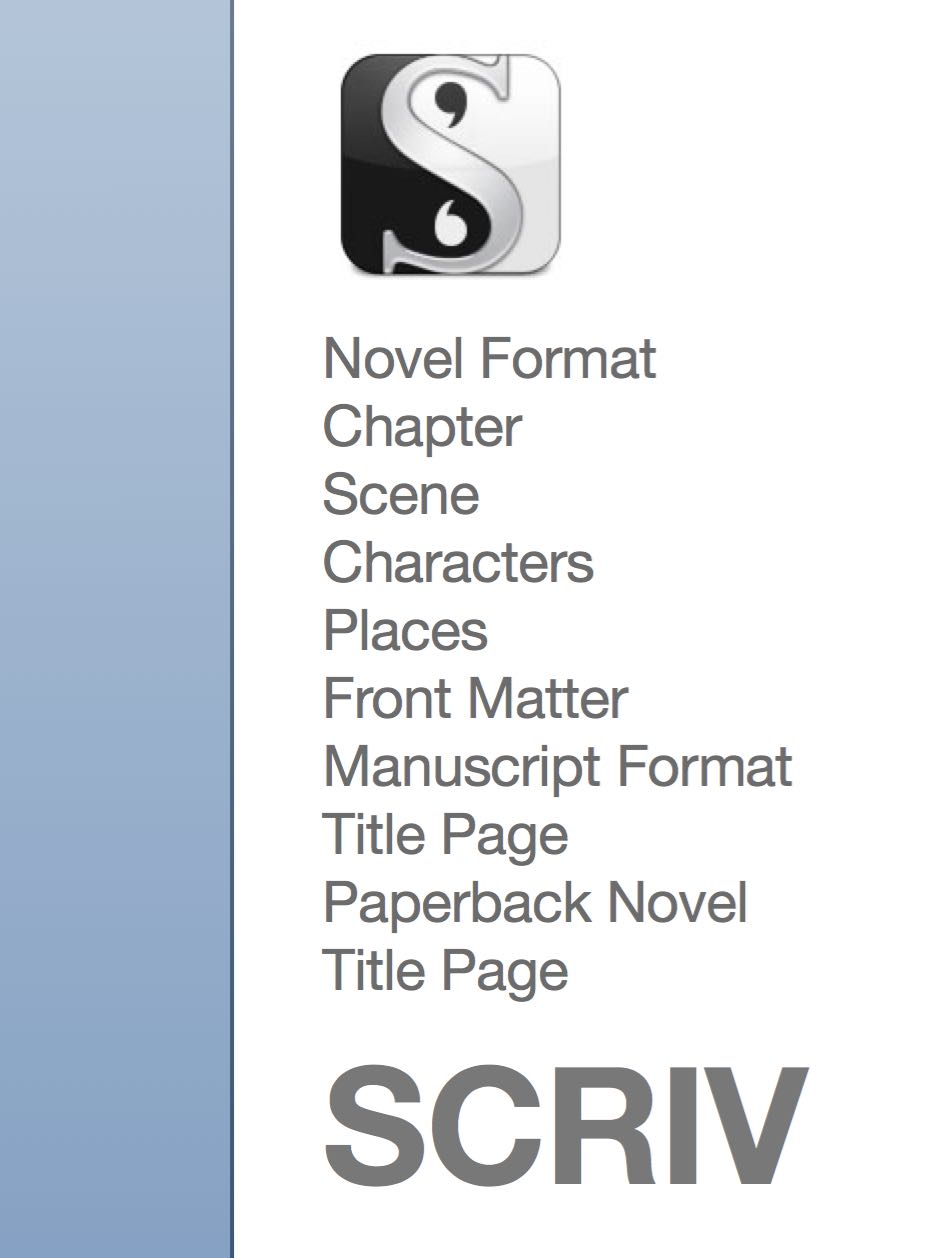
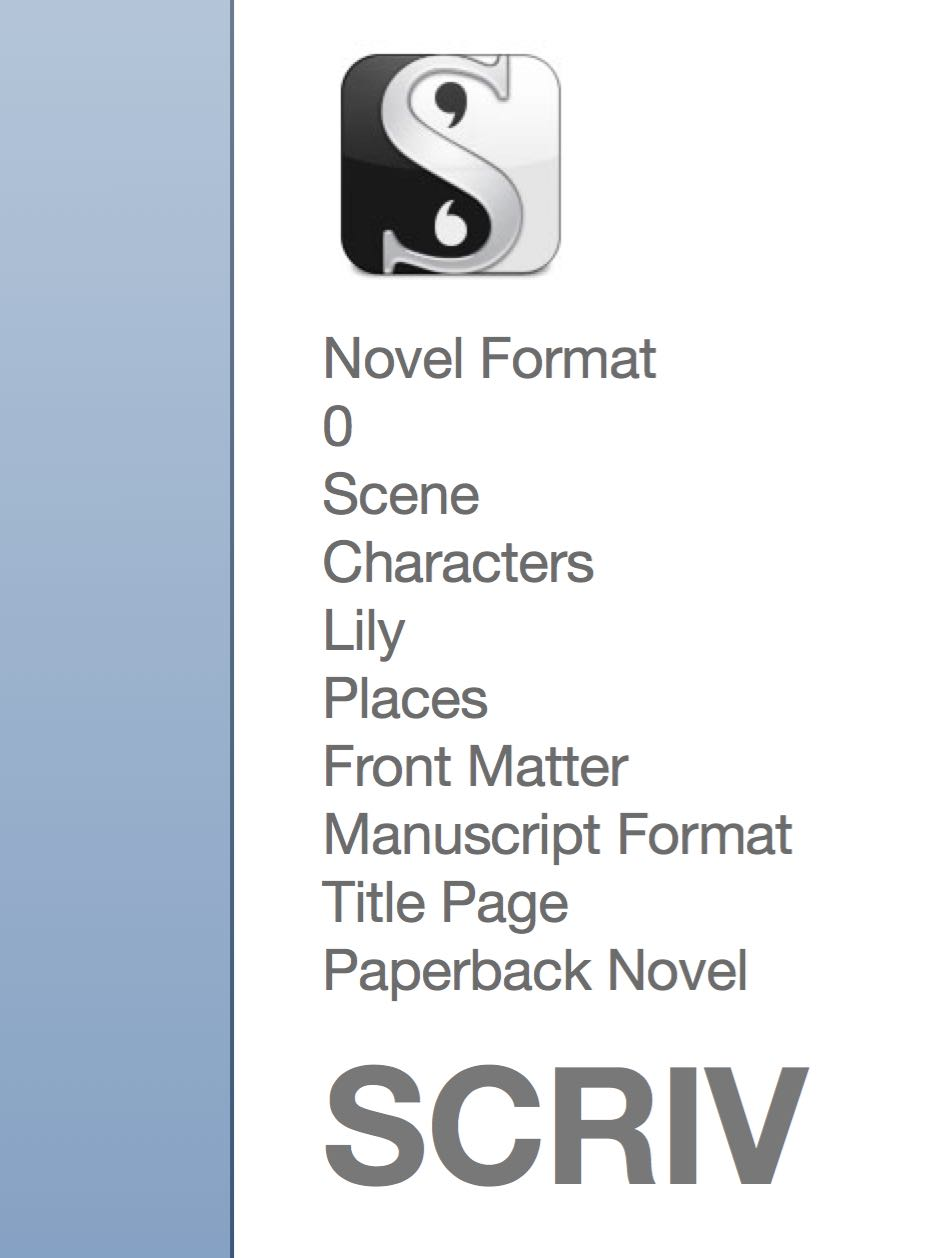
Okay, I admit I had forgotten how slow things start.
It's like slogging through maple syrup.

Changed region(s): [[0.3379, 0.465, 0.8602, 0.806], [0.3379, 0.31, 0.553, 0.372]]

diff --git a/Cascades.scriv/QuickLook/Preview.html b/Cascades.scriv/QuickLook/Preview.html
@@ -1,7 +1,7 @@
 <html>
 
 <head>
-<title>NaNoWriMo 2015</title>
+<title>Cascades</title>
 <meta http-equiv="Content-Type" content="text/html; charset=utf-8">
 <style type="text/css">
 	body {background-color: #bac0c7}
@@ -42,12 +42,15 @@ How To Use This Template<br/>
 <hr/>
 <ul>
 <li>
-<p class="binderItem"><strong>Chapter</strong></p>
+<p class="binderItem"><strong>0</strong></p>
 </li>
 <hr/>
 <ul>
 <li>
-<p class="binderItem"><strong>Scene</strong></p>
+<p class="binderItem"><strong>Scene</strong><br/>The speaker crackled and my ears perked up, the response Pavlovian—uncontrollable.<br/>
+“Alright, ladies and gentlemen.  We’ve reached cruising altitude.”<br/>
+My eyes stared at the public address speaker on the wall ahead of me while my hands pulled my bookmark from the back of my book and slid it into place on the current page.<br/>
+“I’m turning off the No Smoking sign in the forward cabin,” the ding chimed over the PA in the same cadence as the man’s speech, as if it was just another piece of punctuation in...</p>
 </li>
 </ul>
 </ul>
@@ -55,6 +58,13 @@ How To Use This Template<br/>
 <li>
 <p class="binderItem"><strong>Characters</strong></p>
 </li>
+<hr/>
+<ul>
+<li>
+<p class="binderItem"><strong>Lily</strong><br/>Our protagonist.</p>
+</li>
+</ul>
+<hr/>
 <li>
 <p class="binderItem"><strong>Places</strong></p>
 </li>
@@ -492,6 +502,18 @@ Northrop Grumman E-8 Joint STARS<br/>
 VC-137C SAM 26000<br/>
 VC-137C SAM 27000<br/>
 The Boeing C-137 Stratoliner was a VIP...</p>
+</li>
+<li>
+<p class="binderItem"><strong>707 Seating Chart American Airlines</strong></p>
+</li>
+<li>
+<p class="binderItem"><strong>707 Seating Chart TWA</strong></p>
+</li>
+<li>
+<p class="binderItem"><strong>707 Super Coach Seating Chart TWA</strong></p>
+</li>
+<li>
+<p class="binderItem"><strong>707 Seating Chart TWA 1st Class</strong></p>
 </li>
 </ul>
 <hr/>
